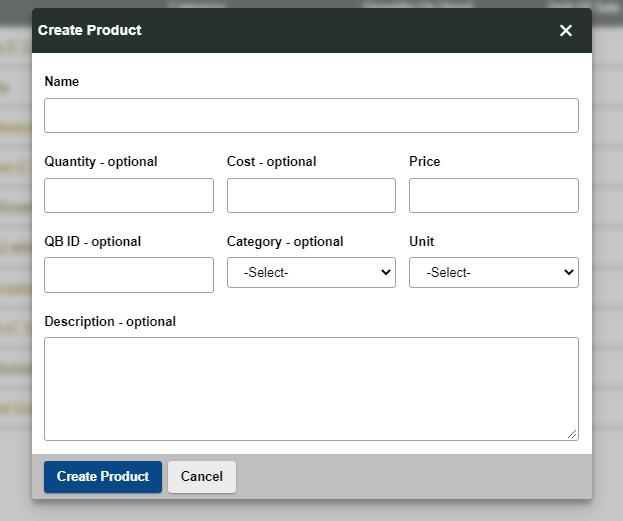
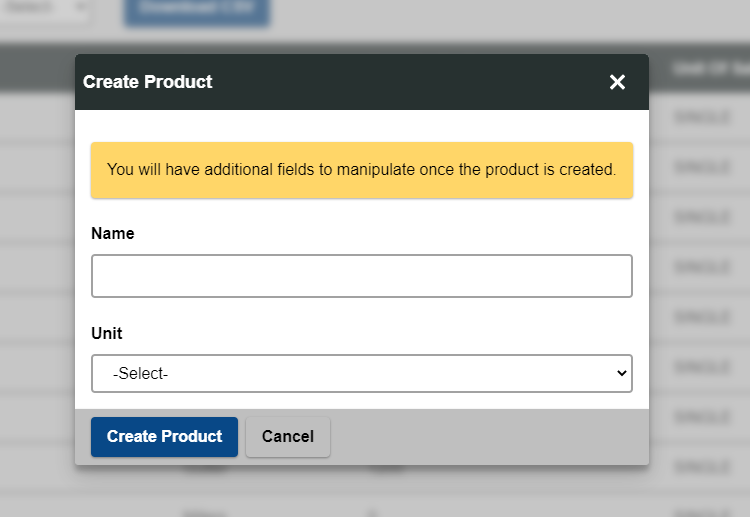
👌 IMPROVE: Add details on new tools for internal use.

diff --git a/docs/flat-rate-metal-admin-portal/4- products.md b/docs/flat-rate-metal-admin-portal/4- products.md
@@ -7,12 +7,6 @@ Figure 1 - Common links and actions to interact with products
 
 ## Add Product
 
-:::caution
-
-This feature is overdue for an upgrade and is planned to be updated to be more intuitive. Consider using [Add Products Bulk (.csv)](#add-products-bulk-csv) instead.
-
-:::
-
 To manually add a product to the system start by clicking the **Add Product** button (#4 from the Figure 1)
 
 ![FRM Add Product](../../static/img/products/product-create.png)
@@ -43,11 +37,57 @@ Easily remove and add product images.
 
 ## Update Product Details
 
+You have complete freedom to update information about a product on the product page. Each field has a purpose we will go ahead and outline those here.
+![](../../static/img/products/update-product-details.png)
+
+| Field                | Description                                                                           | Required |
+| -------------------- | ------------------------------------------------------------------------------------- | -------- |
+| Name                 | Display name of the product used universally on the website and app                   | yes      |
+| Slug                 | The segmant of the web address that uniquely identifies this product (must be unique) | yes      |
+| Status               | Dictates weather the product is visible or hidden to customers using app or website   | yes      |
+| Category             | The immediate category that this product is related to                                | no       |
+| Color                | Color value                                                                           | no       |
+| Material             | Material value                                                                        | no       |
+| Style                | Style value (Style D, Style K, etc...)                                                | no       |
+| Type                 | Type value                                                                            | no       |
+| Size                 | Size value                                                                            | no       |
+| Order                | Order priority of this item in the user interface                                     | no       |
+| Title Tag            | SEO                                                                                   | yes      |
+| Meta Description Tag | SEO                                                                                   | yes      |
+| Description          | Displayed on the product page to give additional information to customers             | no       |
+
 ## Update Product Pricing
+
+Product pricing is managed by pricing tiers. Each company customer is assigned a pricing tier (default MSRP). Pricing tiers can be edited and adjusted on the product page.
+
+![](../../static/img/products/pricing_tiers.png)
+
+:::info
+When editing a pricing tier always enter the value in pennies
+:::
+
+By default all pricing tiers will rely off of the **MSRP** Pricing tier so always ensure this value is populated on active products.
+
+![](../../static/img/products/edit_pricing_tier.png)
 
 ## Manage Product Sale Options
 
+Product sale options can be turned on and off on a per product basis. Each switch controls how the product is shown to the user ina unique way.
+
+![](../../static/img/products/sale-options.png)
+
+1. **Special Order Only** - Lets the customer know this item is special order and will require additional planning to be fulfilled.
+2. **Phone Order Only** - **DO NOT USE** will soon be deleted in favor of **Special Order Only**
+3. **Hide Price** - Removes all indication of pricing on the product and does not allow customers to purchase it. Intended to be used with **Special Order Only** and Copper products.
+4. **Out Of Stock** - Lets the customer know this item is out of stock **(The customer can still order the product)**.
+5. **Can Coil Sell** - As is shown in the interface this switch alters how this product can be purchased. Only used for gutter coil.
+6. **Product On Sale** - This switch lets the customer know that this product is on sale.
+
 ### Product Sale Units
+
+Sale units are additional quantities that we use to sell to the customer. For example drip edge can be purchased by the piece, box, or pallet. All sale unit values are based off of the base unit.
+
+![](../../static/img/products/sale-units.png)
 
 ## Update Products Bulk (.csv)
 

diff --git a/docs/dev-best-practice-docs/data-fetching.md b/docs/dev-best-practice-docs/data-fetching.md
@@ -45,3 +45,14 @@ export default async function request({
   }
 }
 ```
+
+## React Query
+
+React Query is a new addition to our Data Fetching and State Management strategy. It requests state and stores it using query keys and comes out of the box with great support for hooks.
+
+There are 2 versions of this package that you need to be aware of:
+
+- [Version 3](https://react-query-v3.tanstack.com/overview)
+- [Version 4 - Also Known as Tanstack Query](https://tanstack.com/query/v4/docs/overview)
+
+You may be asking yourself why shouldn't we just use version 4 to simplify things? Good questions. We started using this library fairly recently and seeming right after we started using version 3 the next version was released. At some point we will move over to version 4 but for the time being we will stick with version 3 in the projects that use it. If we start a new project then we should use version 4.

diff --git a/docs/dev-best-practice-docs/state-management.md b/docs/dev-best-practice-docs/state-management.md
@@ -1,5 +1,17 @@
 # State Management
 
+State is a tricky thing and a lot of it relies on the client you are building for. At everlast brands we believe that all state management has a place but the following state management tools are all encompasing for our use cases.
+
+## React Context
+
 React Context can be implemented at the global level for things like authenticated user data or other global state. Context can also be used to avoid prop drilling for large component trees.
 
 [Documentation Link](https://reactjs.org/docs/context.html)
+
+## Jotai Atoms
+
+A performant replacement for React Context https://jotai.org/
+
+## Zustand
+
+A modern store style state management tool https://github.com/pmndrs/zustand
